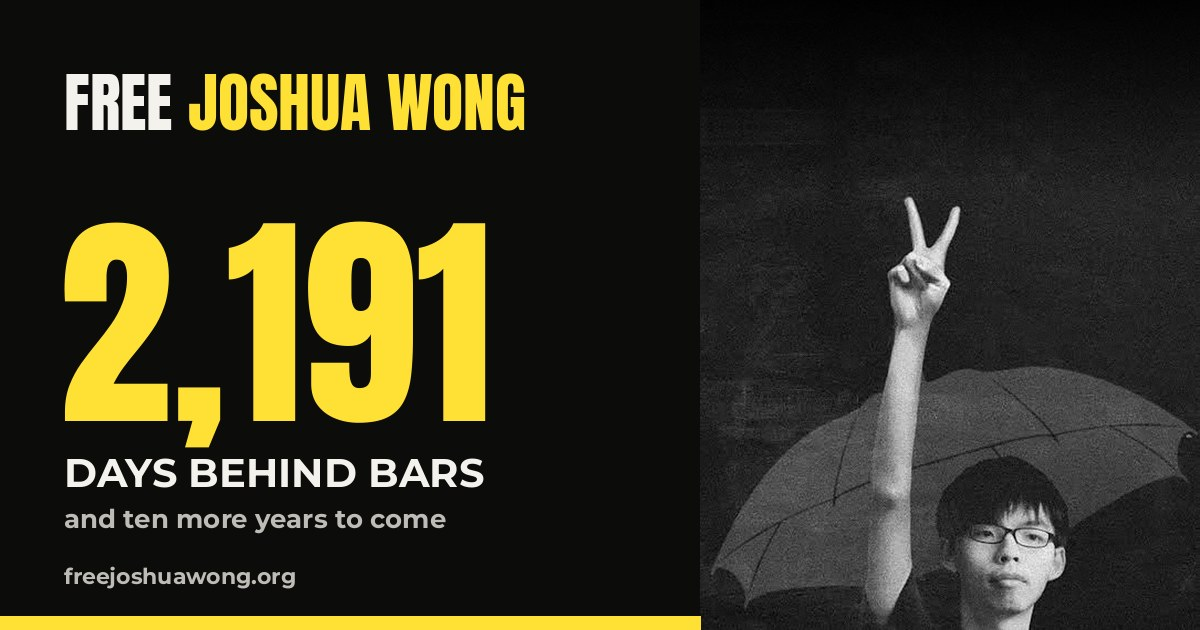
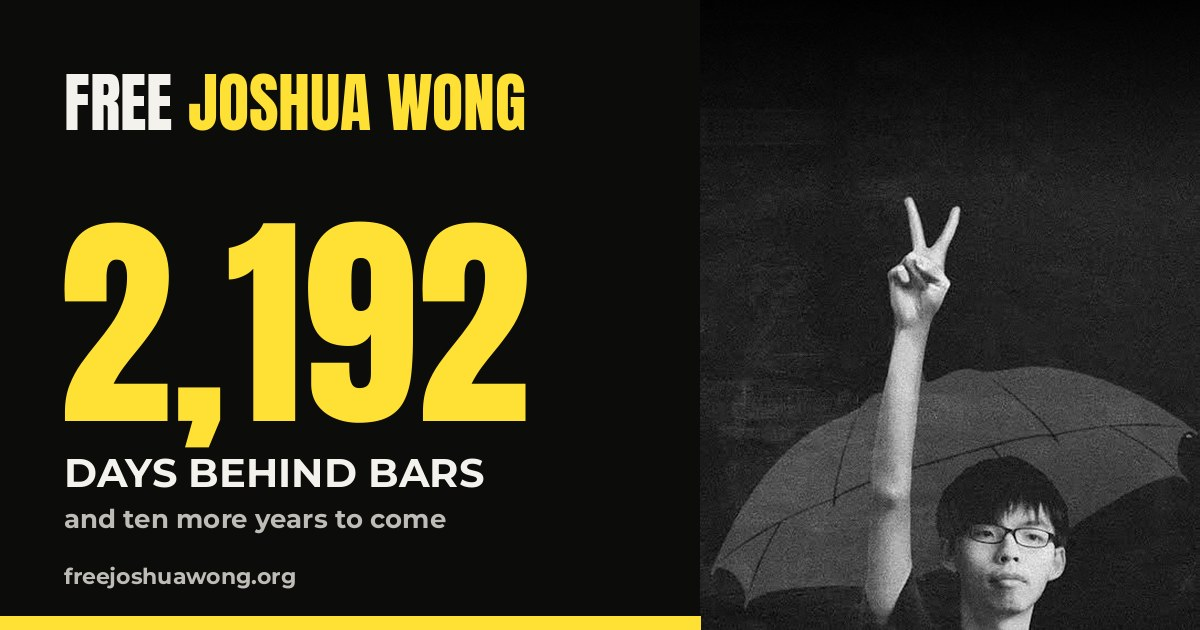
Press: add CFHK Foundation 'APEC's Blind Spot' (20 Nov), Engelsberg Ideas/Wasserstrom (20 Nov), RTI commentary (11 Nov); update Latest; rebuild
Claude-Session: https://claude.ai/code/session_01MmFPUtTBzD3E53Nd7R8hpM

Changed region(s): [[0.3392, 0.3619, 0.4625, 0.6937]]

diff --git a/index.html b/index.html
@@ -20,7 +20,7 @@
 <link rel="preconnect" href="https://fonts.googleapis.com">
 <link rel="preconnect" href="https://fonts.gstatic.com" crossorigin>
 <link href="https://fonts.googleapis.com/css2?family=Anton&family=Montserrat:wght@500;600;700;800&family=Newsreader:ital,opsz,wght@0,6..72,300..600;1,6..72,300..500&display=swap" rel="stylesheet">
-<link rel="stylesheet" href="assets/site.css?v=aef8dfa2">
+<link rel="stylesheet" href="assets/site.css?v=92f6fa68">
 <script data-goatcounter="https://freejoshuawong.goatcounter.com/count" async src="https://gc.zgo.at/count.js"></script>
 </head>
 <body>
@@ -43,7 +43,7 @@
       <div class="r now"><span class="y">2026</span><b>Prisoner vs. Superpower</b></div>
       <div class="r cell-row"><span class="y">Now</span>
         <div class="cell" role="timer" aria-label="Days Joshua Wong has spent in prison">
-          <div class="cell-in"><span class="n" id="days" data-jailed="2020-11-23">2,191</span><span class="u">days<br>behind bars</span></div>
+          <div class="cell-in"><span class="n" id="days" data-jailed="2020-11-23">2,192</span><span class="u">days<br>behind bars</span></div>
         </div>
       </div>
     </div>
@@ -102,7 +102,7 @@
       <a href="voices.html#governments"><b>11</b><span>governments, plus the EU, condemned his sentence</span></a>
       <a href="letters/open-letter-prime-minister-sept-2026.html"><b>31</b><span>MPs, peers and rights leaders signed the open letter to the Prime Minister</span></a>
       <a href="parliament.html"><b>17</b><span>times raised in Parliament since the new charge in June 2025</span></a>
-      <a href="newsroom.html"><b>68</b><span>reports, podcasts and editorials since June 2025</span></a>
+      <a href="newsroom.html"><b>71</b><span>reports, podcasts and editorials since June 2025</span></a>
     </div>
   </div>
 </section>
@@ -121,34 +121,34 @@
       <h3>Asked and answered</h3>
       <p class="tk-lede">What ministers have been asked about Joshua since September, and what they have said.</p>
       <div class="wait-row">
-        <div class="wait-n"><span data-since="2026-11-11">12</span><small>days since 11 Nov</small></div>
+        <div class="wait-n"><span data-since="2026-11-11">13</span><small>days since 11 Nov</small></div>
         <div><em class="tk-st st-weak">No action</em><h4>Will the UK consider sanctions on those responsible?</h4><p>Written question from Richard Holden MP. Answering on 19 November, the minister said it “would not be appropriate for me to speculate on future measures”. <a href="https://questions-statements.parliament.uk/written-questions/detail/2026-11-11/42157" target="_blank" rel="noopener">The answer</a></p></div>
       </div>
       <div class="wait-row">
-        <div class="wait-n"><span data-since="2026-11-10">13</span><small>days since 10 Nov</small></div>
+        <div class="wait-n"><span data-since="2026-11-10">14</span><small>days since 10 Nov</small></div>
         <div><em class="tk-st st-dodged">Not answered</em><h4>Has the Foreign Secretary summoned the Chinese Ambassador over Joshua?</h4><p>Written question from Alex Barros-Curtis MP, one of seven tabled after the sentence. Answered on 18 November with a reference to another answer, which does not say whether the Ambassador has been summoned. <a href="https://questions-statements.parliament.uk/written-questions/detail/2026-11-10/41576" target="_blank" rel="noopener">The answer</a></p></div>
       </div>
       <div class="wait-row">
-        <div class="wait-n"><span data-since="2026-11-10">13</span><small>days since 10 Nov</small></div>
+        <div class="wait-n"><span data-since="2026-11-10">14</span><small>days since 10 Nov</small></div>
         <div><em class="tk-st st-weak">No action</em><h4>Summon the Ambassador and call for Joshua’s release, as the Government did for Jimmy Lai</h4><p>Emily Darlington MP in the Commons. The Security Minister said the Government “share the concerns” but made no commitment. <a href="parliament.html#exchange-nov">Watch the exchange</a></p></div>
       </div>
       <div class="wait-row">
-        <div class="wait-n"><span data-since="2026-11-03">20</span><small>days since 3 Nov</small></div>
+        <div class="wait-n"><span data-since="2026-11-03">21</span><small>days since 3 Nov</small></div>
         <div><em class="tk-st st-weak">No action</em><h4>Will Joshua’s treatment count in decisions on China’s new embassy?</h4><p>Written question from Alex Barros-Curtis MP. The Government said it does not comment on ongoing legal proceedings. <a href="https://questions-statements.parliament.uk/written-questions/detail/2026-10-22/37356" target="_blank" rel="noopener">The answer</a></p></div>
       </div>
       <div class="wait-row">
-        <div class="wait-n"><span data-since="2026-09-13">71</span><small>days since 13 Sep</small></div>
+        <div class="wait-n"><span data-since="2026-09-13">72</span><small>days since 13 Sep</small></div>
         <div><em class="tk-st st-none">No reply</em><h4>Summon China’s Ambassador to raise Joshua’s case</h4><p><a href="letters/open-letter-prime-minister-sept-2026.html">The open letter to the Prime Minister</a>, Andy Burnham, signed by 31 MPs, peers and rights leaders. No reply. <a href="letters/open-letter-prime-minister-sept-2026.html">Read the letter</a></p></div>
       </div>
       <div class="wait-row">
-        <div class="wait-n"><span data-since="2026-09-08">76</span><small>days since 8 Sep</small></div>
+        <div class="wait-n"><span data-since="2026-09-08">77</span><small>days since 8 Sep</small></div>
         <div><em class="tk-st st-weak">No action</em><h4>What has the UK said to Hong Kong about Joshua’s case?</h4><p>Six written questions from Gregory Stafford MP. One answer for all six: the Government “continues to monitor” the case. <a href="https://qna.files.parliament.uk/qnadailyreports/Written-Questions-Answers-Statements-Daily-Report-Commons-2026-09-08.pdf" target="_blank" rel="noopener">Read the answer (p.478)</a></p></div>
       </div>
       <div class="wait-row">
-        <div class="wait-n"><span data-since="2026-09-01">83</span><small>days since 1 Sep</small></div>
+        <div class="wait-n"><span data-since="2026-09-01">84</span><small>days since 1 Sep</small></div>
         <div><em class="tk-st st-noupdate">No update</em><h4>Take Joshua’s case up with China</h4><p>Sir Iain Duncan Smith in the Commons. The Foreign Secretary, Ed Miliband, said he would. No update has been made public. <a href="parliament.html#exchange">Watch the exchange</a></p></div>
       </div>
-      <p class="tk-foot">For comparison: when Jimmy Lai was convicted on 15 December 2025, the Foreign Office <a href="https://www.gov.uk/government/news/statement-fcdo-summons-chinese-ambassador-15-december-2025" target="_blank" rel="noopener">summoned the Chinese Ambassador the same day</a>. Joshua was sentenced <b data-since="2026-11-05">18</b> days ago. There has been no public word of the Ambassador being summoned over his case.</p>
+      <p class="tk-foot">For comparison: when Jimmy Lai was convicted on 15 December 2025, the Foreign Office <a href="https://www.gov.uk/government/news/statement-fcdo-summons-chinese-ambassador-15-december-2025" target="_blank" rel="noopener">summoned the Chinese Ambassador the same day</a>. Joshua was sentenced <b data-since="2026-11-05">19</b> days ago. There has been no public word of the Ambassador being summoned over his case.</p>
     </div>
     <p class="h4-more"><a href="case.html">Read the full case</a></p>
   </div>
@@ -189,7 +189,7 @@ Yours sincerely,
 <section class="h4-news">
   <div class="wrap">
     <div class="h4-news-head"><h2>Latest coverage</h2><a class="h4-link" href="newsroom.html">All coverage and statements</a></div>
-    <ul class="newslist"><li><a href="https://www.hawley.senate.gov/hawley-urges-state-department-to-advocate-for-release-of-hong-kong-rights-champion-joshua-wong/" target="_blank" rel="noopener"><span class="o">US Senate</span><span class="h">Senator Josh Hawley urges the Secretary of State to press for Joshua’s release</span><span class="d">20 Nov 2026</span></a></li><li><a href="parliament.html" target="_blank" rel="noopener"><span class="o">Parliament · Written answers</span><span class="h">Asked whether the Ambassador was summoned, the minister doesn’t say</span><span class="d">18–19 Nov 2026</span></a></li><li><a href="https://www.humanrightsresearch.org/post/hong-kong-pro-democracy-activist-joshua-wong-sentenced-to-ten-years" target="_blank" rel="noopener"><span class="o">Human Rights Research Center</span><span class="h">Hong Kong pro-democracy activist Joshua Wong sentenced to ten years</span><span class="d">18 Nov 2026</span></a></li><li><a href="https://globalvoices.org/2026/11/18/who-will-respond-jailed-hong-kong-pro-democracy-activist-joshua-wong-fears-being-forgotten-amid-10-year-sentence/" target="_blank" rel="noopener"><span class="o">Global Voices</span><span class="h">‘Who will respond?’ Joshua fears being forgotten amid his 10-year sentence</span><span class="d">18 Nov 2026</span></a></li><li><a href="https://www.washingtonpost.com/opinions/2026/11/17/joshua-wong-apec-call-hong-kong-bluff/" target="_blank" rel="noopener"><span class="o">The Washington Post · Opinion</span><span class="h">Joshua Wong and the APEC summit: calling Hong Kong’s bluff</span><span class="d">17 Nov 2026</span></a></li></ul>
+    <ul class="newslist"><li><a href="https://hkuncensored.substack.com/p/apecs-blind-spot" target="_blank" rel="noopener"><span class="o">Committee for Freedom in Hong Kong Foundation</span><span class="h">APEC’s blind spot: Hong Kong’s political prisoners, including Joshua, at the Shenzhen summit</span><span class="d">20 Nov 2026</span></a></li><li><a href="https://engelsbergideas.com/notebook/xis-shenzhen-summit-was-less-novel-than-it-seemed/" target="_blank" rel="noopener"><span class="o">Engelsberg Ideas · Jeffrey Wasserstrom</span><span class="h">Xi’s Shenzhen summit was less novel than it seemed</span><span class="d">20 Nov 2026</span></a></li><li><a href="https://www.hawley.senate.gov/hawley-urges-state-department-to-advocate-for-release-of-hong-kong-rights-champion-joshua-wong/" target="_blank" rel="noopener"><span class="o">US Senate</span><span class="h">Senator Josh Hawley urges the Secretary of State to press for Joshua’s release</span><span class="d">20 Nov 2026</span></a></li><li><a href="parliament.html" target="_blank" rel="noopener"><span class="o">Parliament · Written answers</span><span class="h">Asked whether the Ambassador was summoned, the minister doesn’t say</span><span class="d">18–19 Nov 2026</span></a></li><li><a href="https://www.humanrightsresearch.org/post/hong-kong-pro-democracy-activist-joshua-wong-sentenced-to-ten-years" target="_blank" rel="noopener"><span class="o">Human Rights Research Center</span><span class="h">Hong Kong pro-democracy activist Joshua Wong sentenced to ten years</span><span class="d">18 Nov 2026</span></a></li></ul>
   </div>
 </section>
 </main>
@@ -233,7 +233,7 @@ window.addEventListener('DOMContentLoaded',function(){
     <div>
       <div class="brand">Free <span>Joshua Wong</span></div>
       <p>A campaign for the release of Joshua Wong, the Hong Kong democracy campaigner in prison since November 2020.</p>
-      <p class="updated" style="font-size:12px;opacity:.6">Last updated 23 November 2026</p>
+      <p class="updated" style="font-size:12px;opacity:.6">Last updated 24 November 2026</p>
     </div>
     <div class="cols">
       <nav aria-label="Footer">
@@ -248,6 +248,6 @@ window.addEventListener('DOMContentLoaded',function(){
   </div>
 </footer>
 <script src="assets/messages.js"></script>
-<script src="assets/site.js?v=aef8dfa2"></script>
+<script src="assets/site.js?v=92f6fa68"></script>
 </body>
 </html>

diff --git a/parliament.html b/parliament.html
@@ -20,7 +20,7 @@
 <link rel="preconnect" href="https://fonts.googleapis.com">
 <link rel="preconnect" href="https://fonts.gstatic.com" crossorigin>
 <link href="https://fonts.googleapis.com/css2?family=Anton&family=Montserrat:wght@500;600;700;800&family=Newsreader:ital,opsz,wght@0,6..72,300..600;1,6..72,300..500&display=swap" rel="stylesheet">
-<link rel="stylesheet" href="assets/site.css?v=aef8dfa2">
+<link rel="stylesheet" href="assets/site.css?v=92f6fa68">
 <script data-goatcounter="https://freejoshuawong.goatcounter.com/count" async src="https://gc.zgo.at/count.js"></script>
 </head>
 <body>
@@ -128,7 +128,7 @@
           <div class="px-role">Foreign Secretary</div>
           <p>Said he would take up Joshua’s case.</p>
         </div>
-        <div class="px-count"><b data-since="2026-09-01">83</b><span>days since that promise.<br>No update has been made public.</span></div>
+        <div class="px-count"><b data-since="2026-09-01">84</b><span>days since that promise.<br>No update has been made public.</span></div>
         <div data-share data-url="https://freejoshuawong.org/parliament.html" data-text="The Foreign Secretary promised to take up Joshua Wong’s case. No update since. #FreeJoshuaWong #JoshuaWong"></div>
       </div>
     </div>
@@ -192,7 +192,7 @@
         <div><div class="rec-who">Written questions · Gregory Stafford MP <span class="pty pty-con" title="Conservative">Con</span></div><h3>Six questions, one answer</h3><p>Gregory Stafford MP asked six questions on Joshua’s case, including what representations the UK has made to the Hong Kong authorities and its assessment of the rule of law in his case. Minister Chris Elmore gave a single answer: the Government continues to monitor the case, reports on it in the six-monthly reports, and repeats its call for the National Security Law to be repealed.</p><a class="src" href="https://qna.files.parliament.uk/qnadailyreports/Written-Questions-Answers-Statements-Daily-Report-Commons-2026-09-08.pdf" target="_blank" rel="noopener">Daily Report, p.478</a></div>
       </article><article class="rec" data-k="commons" id="rec-2026-09-01">
         <div class="rec-d"><span>1 Sep 2026</span><em class="k-commons">Commons</em></div>
-        <div><div class="rec-who">Foreign Office Questions · House of Commons</div><h3>“Enough is enough”</h3><p>Sir Iain Duncan Smith urged the Government to raise Joshua’s case with Beijing. Foreign Secretary Ed Miliband said he would take it up. No update has been made public since.</p><div class="rec-wait"><b data-since="2026-09-01">83</b> days, no update</div><a class="src" href="#exchange">Watch the exchange</a></div>
+        <div><div class="rec-who">Foreign Office Questions · House of Commons</div><h3>“Enough is enough”</h3><p>Sir Iain Duncan Smith urged the Government to raise Joshua’s case with Beijing. Foreign Secretary Ed Miliband said he would take it up. No update has been made public since.</p><div class="rec-wait"><b data-since="2026-09-01">84</b> days, no update</div><a class="src" href="#exchange">Watch the exchange</a></div>
       </article><article class="rec" data-k="lords">
         <div class="rec-d"><span>17 Dec 2025</span><em class="k-lords">Lords</em></div>
         <div><div class="rec-who">Jimmy Lai Conviction · House of Lords</div><h3>Named in the Lords after Jimmy Lai’s conviction</h3><p>Lord Alton asked what the Government is doing to raise the cases of pro-democracy prisoners “such as Joshua Wong and Andy Li”.</p><a class="src" href="https://hansard.parliament.uk/Lords/2025-12-17/debates/6CF28FA8-3A92-4C34-808D-A4BDD6322D85/JimmyLaiConviction" target="_blank" rel="noopener">Read the debate</a></div>
@@ -241,7 +241,7 @@
     <div>
       <div class="brand">Free <span>Joshua Wong</span></div>
       <p>A campaign for the release of Joshua Wong, the Hong Kong democracy campaigner in prison since November 2020.</p>
-      <p class="updated" style="font-size:12px;opacity:.6">Last updated 23 November 2026</p>
+      <p class="updated" style="font-size:12px;opacity:.6">Last updated 24 November 2026</p>
     </div>
     <div class="cols">
       <nav aria-label="Footer">
@@ -255,6 +255,6 @@
     </div>
   </div>
 </footer>
-<script src="assets/site.js?v=aef8dfa2"></script>
+<script src="assets/site.js?v=92f6fa68"></script>
 </body>
 </html>

diff --git a/zh.html b/zh.html
@@ -20,7 +20,7 @@
 <link rel="preconnect" href="https://fonts.googleapis.com">
 <link rel="preconnect" href="https://fonts.gstatic.com" crossorigin>
 <link href="https://fonts.googleapis.com/css2?family=Anton&family=Montserrat:wght@500;600;700;800&family=Newsreader:ital,opsz,wght@0,6..72,300..600;1,6..72,300..500&display=swap" rel="stylesheet">
-<link rel="stylesheet" href="assets/site.css?v=aef8dfa2">
+<link rel="stylesheet" href="assets/site.css?v=92f6fa68">
 <script data-goatcounter="https://freejoshuawong.goatcounter.com/count" async src="https://gc.zgo.at/count.js"></script>
 </head>
 <body>
@@ -43,7 +43,7 @@
 <div class="wrap"><p class="zh-demand">召見中國大使，釋放黃之鋒。</p></div>
 <section class="zh" style="border-top:0;padding-top:20px">
   <div class="wrap zh-body">
-    <div class="zh-count"><b data-since="2020-11-23">2191</b><span>日<br>身陷囹圄</span></div>
+    <div class="zh-count"><b data-since="2020-11-23">2192</b><span>日<br>身陷囹圄</span></div>
 
     <h2 class="zh-h">他是誰</h2>
     <p>黃之鋒十四歲時與同學創立學民思潮，2012年帶領反對國民教育科的運動。2014年雨傘運動期間，他是學生領袖之一。2016年，他與羅冠聰等人創立香港眾志。</p>
@@ -108,7 +108,7 @@
     <div>
       <div class="brand">Free <span>Joshua Wong</span></div>
       <p>A campaign for the release of Joshua Wong, the Hong Kong democracy campaigner in prison since November 2020.</p>
-      <p class="updated" style="font-size:12px;opacity:.6">Last updated 23 November 2026</p>
+      <p class="updated" style="font-size:12px;opacity:.6">Last updated 24 November 2026</p>
     </div>
     <div class="cols">
       <nav aria-label="Footer">
@@ -122,6 +122,6 @@
     </div>
   </div>
 </footer>
-<script src="assets/site.js?v=aef8dfa2"></script>
+<script src="assets/site.js?v=92f6fa68"></script>
 </body>
 </html>

diff --git a/assets/press.js b/assets/press.js
@@ -11,6 +11,9 @@ window.MOMENTS = [
   {id:"sentence", label:"Ten more years",     when:"November 2026"}
 ];
 window.PRESS = [
+  {date:"2026-11-20", outlet:"Committee for Freedom in Hong Kong Foundation", type:"rights", region:"US", moment:"sentence", title:"APEC’s Blind Spot", url:"https://hkuncensored.substack.com/p/apecs-blind-spot"},
+  {date:"2026-11-20", outlet:"Engelsberg Ideas", type:"opinion", region:"Europe", moment:"sentence", by:"Jeffrey Wasserstrom", title:"Xi’s Shenzhen summit was less novel than it seemed", url:"https://engelsbergideas.com/notebook/xis-shenzhen-summit-was-less-novel-than-it-seemed/"},
+  {date:"2026-11-11", outlet:"Radio Taiwan International", type:"opinion", region:"Asia", moment:"sentence", title:"被畫上休止符的青春 黃之鋒十年刑期與香港的世代斷層 (Youth brought to a full stop: Joshua Wong’s ten-year sentence and Hong Kong’s generational rift)", url:"https://www.rti.org.tw/news?uid=3&pid=1050764"},
   {date:"2026-11-18", outlet:"Human Rights Research Center", type:"rights", region:"Global", moment:"sentence", title:"Hong Kong Pro-Democracy Activist Joshua Wong Sentenced To Ten Years", url:"https://www.humanrightsresearch.org/post/hong-kong-pro-democracy-activist-joshua-wong-sentenced-to-ten-years"},
   {date:"2026-11-06", outlet:"The Times", type:"opinion", region:"UK", moment:"sentence", paywall:true, feature:false, title:"Leading article: Supine Silence", url:"https://www.thetimes.com/comment/the-times-view/article/joshua-wong-jailed-hong-kong-uk-china-nn9c6vpzc"},
   {date:"2026-11-11", outlet:"The Times", type:"opinion", region:"UK", moment:"sentence", paywall:true, by:"Emily Darlington MP, Lord Alton, Lord Patten and five others", title:"Letter: Unjust prosecution", url:"https://www.thetimes.com/comment/letters-to-editor/article/times-letters-civil-service-needs-urgent-reform-wq3bcj955"},

diff --git a/voices.html b/voices.html
@@ -20,7 +20,7 @@
 <link rel="preconnect" href="https://fonts.googleapis.com">
 <link rel="preconnect" href="https://fonts.gstatic.com" crossorigin>
 <link href="https://fonts.googleapis.com/css2?family=Anton&family=Montserrat:wght@500;600;700;800&family=Newsreader:ital,opsz,wght@0,6..72,300..600;1,6..72,300..500&display=swap" rel="stylesheet">
-<link rel="stylesheet" href="assets/site.css?v=aef8dfa2">
+<link rel="stylesheet" href="assets/site.css?v=92f6fa68">
 <script data-goatcounter="https://freejoshuawong.goatcounter.com/count" async src="https://gc.zgo.at/count.js"></script>
 </head>
 <body>
@@ -108,7 +108,7 @@
     <div>
       <div class="brand">Free <span>Joshua Wong</span></div>
       <p>A campaign for the release of Joshua Wong, the Hong Kong democracy campaigner in prison since November 2020.</p>
-      <p class="updated" style="font-size:12px;opacity:.6">Last updated 23 November 2026</p>
+      <p class="updated" style="font-size:12px;opacity:.6">Last updated 24 November 2026</p>
     </div>
     <div class="cols">
       <nav aria-label="Footer">
@@ -122,8 +122,8 @@
     </div>
   </div>
 </footer>
-<script src="assets/voices.js?v=aef8dfa2"></script>
-<script src="assets/socials.js?v=aef8dfa2"></script>
-<script src="assets/site.js?v=aef8dfa2"></script>
+<script src="assets/voices.js?v=92f6fa68"></script>
+<script src="assets/socials.js?v=92f6fa68"></script>
+<script src="assets/site.js?v=92f6fa68"></script>
 </body>
 </html>

diff --git a/newsroom.html b/newsroom.html
@@ -20,7 +20,7 @@
 <link rel="preconnect" href="https://fonts.googleapis.com">
 <link rel="preconnect" href="https://fonts.gstatic.com" crossorigin>
 <link href="https://fonts.googleapis.com/css2?family=Anton&family=Montserrat:wght@500;600;700;800&family=Newsreader:ital,opsz,wght@0,6..72,300..600;1,6..72,300..500&display=swap" rel="stylesheet">
-<link rel="stylesheet" href="assets/site.css?v=aef8dfa2">
+<link rel="stylesheet" href="assets/site.css?v=92f6fa68">
 <script data-goatcounter="https://freejoshuawong.goatcounter.com/count" async src="https://gc.zgo.at/count.js"></script>
 </head>
 <body>
@@ -139,7 +139,7 @@
     <div>
       <div class="brand">Free <span>Joshua Wong</span></div>
       <p>A campaign for the release of Joshua Wong, the Hong Kong democracy campaigner in prison since November 2020.</p>
-      <p class="updated" style="font-size:12px;opacity:.6">Last updated 23 November 2026</p>
+      <p class="updated" style="font-size:12px;opacity:.6">Last updated 24 November 2026</p>
     </div>
     <div class="cols">
       <nav aria-label="Footer">
@@ -153,7 +153,7 @@
     </div>
   </div>
 </footer>
-<script src="assets/press.js?v=aef8dfa2"></script>
-<script src="assets/site.js?v=aef8dfa2"></script>
+<script src="assets/press.js?v=92f6fa68"></script>
+<script src="assets/site.js?v=92f6fa68"></script>
 </body>
 </html>

diff --git a/act.html b/act.html
@@ -20,7 +20,7 @@
 <link rel="preconnect" href="https://fonts.googleapis.com">
 <link rel="preconnect" href="https://fonts.gstatic.com" crossorigin>
 <link href="https://fonts.googleapis.com/css2?family=Anton&family=Montserrat:wght@500;600;700;800&family=Newsreader:ital,opsz,wght@0,6..72,300..600;1,6..72,300..500&display=swap" rel="stylesheet">
-<link rel="stylesheet" href="assets/site.css?v=aef8dfa2">
+<link rel="stylesheet" href="assets/site.css?v=92f6fa68">
 <script data-goatcounter="https://freejoshuawong.goatcounter.com/count" async src="https://gc.zgo.at/count.js"></script>
 </head>
 <body>
@@ -134,7 +134,7 @@ Yours sincerely,
     <div>
       <div class="brand">Free <span>Joshua Wong</span></div>
       <p>A campaign for the release of Joshua Wong, the Hong Kong democracy campaigner in prison since November 2020.</p>
-      <p class="updated" style="font-size:12px;opacity:.6">Last updated 23 November 2026</p>
+      <p class="updated" style="font-size:12px;opacity:.6">Last updated 24 November 2026</p>
     </div>
     <div class="cols">
       <nav aria-label="Footer">
@@ -148,6 +148,6 @@ Yours sincerely,
     </div>
   </div>
 </footer>
-<script src="assets/site.js?v=aef8dfa2"></script>
+<script src="assets/site.js?v=92f6fa68"></script>
 </body>
 </html>

diff --git a/write.html b/write.html
@@ -20,7 +20,7 @@
 <link rel="preconnect" href="https://fonts.googleapis.com">
 <link rel="preconnect" href="https://fonts.gstatic.com" crossorigin>
 <link href="https://fonts.googleapis.com/css2?family=Anton&family=Montserrat:wght@500;600;700;800&family=Newsreader:ital,opsz,wght@0,6..72,300..600;1,6..72,300..500&display=swap" rel="stylesheet">
-<link rel="stylesheet" href="assets/site.css?v=aef8dfa2">
+<link rel="stylesheet" href="assets/site.css?v=92f6fa68">
 <script data-goatcounter="https://freejoshuawong.goatcounter.com/count" async src="https://gc.zgo.at/count.js"></script>
 </head>
 <body>
@@ -102,7 +102,7 @@
     <div>
       <div class="brand">Free <span>Joshua Wong</span></div>
       <p>A campaign for the release of Joshua Wong, the Hong Kong democracy campaigner in prison since November 2020.</p>
-      <p class="updated" style="font-size:12px;opacity:.6">Last updated 23 November 2026</p>
+      <p class="updated" style="font-size:12px;opacity:.6">Last updated 24 November 2026</p>
     </div>
     <div class="cols">
       <nav aria-label="Footer">
@@ -117,6 +117,6 @@
   </div>
 </footer>
 <script src="assets/messages.js"></script>
-<script src="assets/site.js?v=aef8dfa2"></script>
+<script src="assets/site.js?v=92f6fa68"></script>
 </body>
 </html>

diff --git a/letters/open-letter-prime-minister-sept-2026.html b/letters/open-letter-prime-minister-sept-2026.html
@@ -20,7 +20,7 @@
 <link rel="preconnect" href="https://fonts.googleapis.com">
 <link rel="preconnect" href="https://fonts.gstatic.com" crossorigin>
 <link href="https://fonts.googleapis.com/css2?family=Anton&family=Montserrat:wght@500;600;700;800&family=Newsreader:ital,opsz,wght@0,6..72,300..600;1,6..72,300..500&display=swap" rel="stylesheet">
-<link rel="stylesheet" href="../assets/site.css?v=aef8dfa2">
+<link rel="stylesheet" href="../assets/site.css?v=92f6fa68">
 <script data-goatcounter="https://freejoshuawong.goatcounter.com/count" async src="https://gc.zgo.at/count.js"></script>
 </head>
 <body>
@@ -77,7 +77,7 @@
     <div>
       <div class="brand">Free <span>Joshua Wong</span></div>
       <p>A campaign for the release of Joshua Wong, the Hong Kong democracy campaigner in prison since November 2020.</p>
-      <p class="updated" style="font-size:12px;opacity:.6">Last updated 23 November 2026</p>
+      <p class="updated" style="font-size:12px;opacity:.6">Last updated 24 November 2026</p>
     </div>
     <div class="cols">
       <nav aria-label="Footer">
@@ -91,6 +91,6 @@
     </div>
   </div>
 </footer>
-<script src="../assets/site.js?v=aef8dfa2"></script>
+<script src="../assets/site.js?v=92f6fa68"></script>
 </body>
 </html>

diff --git a/letters/times-letter-nov-2026.html b/letters/times-letter-nov-2026.html
@@ -20,7 +20,7 @@
 <link rel="preconnect" href="https://fonts.googleapis.com">
 <link rel="preconnect" href="https://fonts.gstatic.com" crossorigin>
 <link href="https://fonts.googleapis.com/css2?family=Anton&family=Montserrat:wght@500;600;700;800&family=Newsreader:ital,opsz,wght@0,6..72,300..600;1,6..72,300..500&display=swap" rel="stylesheet">
-<link rel="stylesheet" href="../assets/site.css?v=aef8dfa2">
+<link rel="stylesheet" href="../assets/site.css?v=92f6fa68">
 <script data-goatcounter="https://freejoshuawong.goatcounter.com/count" async src="https://gc.zgo.at/count.js"></script>
 </head>
 <body>
@@ -70,7 +70,7 @@
     <div>
       <div class="brand">Free <span>Joshua Wong</span></div>
       <p>A campaign for the release of Joshua Wong, the Hong Kong democracy campaigner in prison since November 2020.</p>
-      <p class="updated" style="font-size:12px;opacity:.6">Last updated 23 November 2026</p>
+      <p class="updated" style="font-size:12px;opacity:.6">Last updated 24 November 2026</p>
     </div>
     <div class="cols">
       <nav aria-label="Footer">
@@ -84,6 +84,6 @@
     </div>
   </div>
 </footer>
-<script src="../assets/site.js?v=aef8dfa2"></script>
+<script src="../assets/site.js?v=92f6fa68"></script>
 </body>
 </html>

diff --git a/voices/alicia-kearns-mp-2026-11-05.html b/voices/alicia-kearns-mp-2026-11-05.html
@@ -20,7 +20,7 @@
 <link rel="preconnect" href="https://fonts.googleapis.com">
 <link rel="preconnect" href="https://fonts.gstatic.com" crossorigin>
 <link href="https://fonts.googleapis.com/css2?family=Anton&family=Montserrat:wght@500;600;700;800&family=Newsreader:ital,opsz,wght@0,6..72,300..600;1,6..72,300..500&display=swap" rel="stylesheet">
-<link rel="stylesheet" href="../assets/site.css?v=aef8dfa2">
+<link rel="stylesheet" href="../assets/site.css?v=92f6fa68">
 <script data-goatcounter="https://freejoshuawong.goatcounter.com/count" async src="https://gc.zgo.at/count.js"></script>
 </head>
 <body>
@@ -57,7 +57,7 @@
     <div>
       <div class="brand">Free <span>Joshua Wong</span></div>
       <p>A campaign for the release of Joshua Wong, the Hong Kong democracy campaigner in prison since November 2020.</p>
-      <p class="updated" style="font-size:12px;opacity:.6">Last updated 23 November 2026</p>
+      <p class="updated" style="font-size:12px;opacity:.6">Last updated 24 November 2026</p>
     </div>
     <div class="cols">
       <nav aria-label="Footer">
@@ -71,6 +71,6 @@
     </div>
   </div>
 </footer>
-<script src="../assets/site.js?v=aef8dfa2"></script>
+<script src="../assets/site.js?v=92f6fa68"></script>
 </body>
 </html>

diff --git a/voices/alicia-kearns-mp-2026-11-10.html b/voices/alicia-kearns-mp-2026-11-10.html
@@ -20,7 +20,7 @@
 <link rel="preconnect" href="https://fonts.googleapis.com">
 <link rel="preconnect" href="https://fonts.gstatic.com" crossorigin>
 <link href="https://fonts.googleapis.com/css2?family=Anton&family=Montserrat:wght@500;600;700;800&family=Newsreader:ital,opsz,wght@0,6..72,300..600;1,6..72,300..500&display=swap" rel="stylesheet">
-<link rel="stylesheet" href="../assets/site.css?v=aef8dfa2">
+<link rel="stylesheet" href="../assets/site.css?v=92f6fa68">
 <script data-goatcounter="https://freejoshuawong.goatcounter.com/count" async src="https://gc.zgo.at/count.js"></script>
 </head>
 <body>
@@ -57,7 +57,7 @@
     <div>
       <div class="brand">Free <span>Joshua Wong</span></div>
       <p>A campaign for the release of Joshua Wong, the Hong Kong democracy campaigner in prison since November 2020.</p>
-      <p class="updated" style="font-size:12px;opacity:.6">Last updated 23 November 2026</p>
+      <p class="updated" style="font-size:12px;opacity:.6">Last updated 24 November 2026</p>
     </div>
     <div class="cols">
       <nav aria-label="Footer">
@@ -71,6 +71,6 @@
     </div>
   </div>
 </footer>
-<script src="../assets/site.js?v=aef8dfa2"></script>
+<script src="../assets/site.js?v=92f6fa68"></script>
 </body>
 </html>
